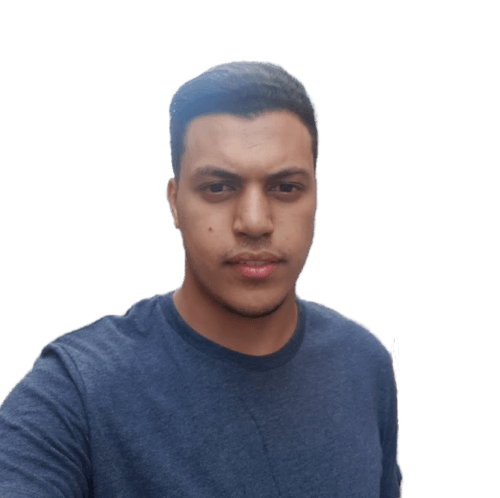
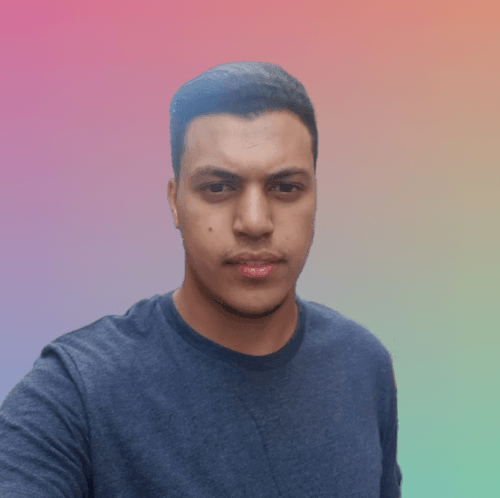
update and fix info

diff --git a/index.html b/index.html
@@ -33,6 +33,12 @@
           <a href="#about">ABOUT</a>
         </li>
         <li>
+          <a href="#work">WORK EXPERIENCE</a>
+        </li>
+        <li>
+          <a href="#education">EDUCATION</a>
+        </li>
+        <li>
           <a href="#skill">SKILL</a>
         </li>
         <li>
@@ -49,14 +55,15 @@
       <div class="text-center">
         <h2 class="hide show">...</h2>
         <h2 class="hide">Developer</h2>
-        <h2 class="hide">Coder</h2>
-        <h2 class="hide">Programmer</h2>
+        <h2 class="hide">Software Engineer</h2>
         <h2 class="hide">Back-end Developer</h2>
         <h2 class="hide">Front-end Developer</h2>
         <h2 class="hide">Full-stack Developer</h2>
         <h2 class="hide">Mobile Developer</h2>
-        <h2 class="hide">Software Engineer</h2>
+        <h2 class="hide">Coder</h2>
+        <h2 class="hide">Programmer</h2>
         <img class="circle" src="./assets/media/aymen.png" alt="aymen">
+        <h3>My name is Aymen, developer and tech passionate.</h3>
       </div>
       <!-- social -->
       <div class="social">
@@ -84,15 +91,47 @@
     <!-- about-->
     <div id="about">
       <h1>About me</h1>
-      <p id="descriptionLang">Passionate about computer science, I'm always looking for new challenges.
+      <p>Passionate about computer science, I'm always looking for new challenges.
         Currently, I attend the third year of Computer Science at the University of Salerno.
         <br>
         I am a very dynamic, sociable person, I like meeting new people and dealing with them. In my free time, I learn
         new technologies and I apply them in my personal projects.<br>
         I'm a coder for passion and hobby.</p>
+        <div class="list">
+          <ul>
+            <li><h2><i class="fab fa-node-js fa-lg"></i> Member and Contributor of Node.js</h2>
+              <p></p>
+            </li>
+          </ul>
+          <ul>
+            <li><h2><i class="fas fa-calendar fa-lg"></i> DevDay Organizer</h2>
+              <p>I organize free events to talk about technology, frameworks, library,
+               languages and much more. We are more than 600 participating. <br>
+                <a href="https://www.devday.it">website www.devday.it</a>
+              </p>
+            </li>
+          </ul>
+        </div>
+    </div>
+    <hr>
+    <!-- work-->
+    <div id="work">
+      <h1><i class="fas fa-globe"></i> Work Experience</h1>
+      <div class="list">
+          <ul>
+            <li><h2>Blexin S.r.l.</h2>
+              <p>Maintenance and addition of new functions with ASP.NET in C # with REST architecture. <br>
+                Addition of new features for cross-platform application (Android, IOS) in Angular 7, Ionic 3.
+              </p>
+            </li>
+          </ul>
+      </div>
+    </div>
+    <hr>
+    <div id="education">
+      <h1><i class="fas fa-university"></i> EDUCATION</h1>
       <div class="list">
         <ul>
-          <h2><i class="fas fa-university"></i> Education:</h2>
           <li>
             <h3>University of Salerno</h3>
           </li>
@@ -108,11 +147,11 @@
           <h3>University of Brighton</h3>
           </li>
           <li>
-            <h4>Learn English</h4>2015-2015
+            Learn English <br> 2015
           </li>
         </ul>
         <ul>
-          <h2><i class="fas fa-language"></i> LANGUAGES:</h2>
+          <li><h2><i class="fas fa-language"></i> LANGUAGES:</h2></li>
           <li>Arabic {native}</li>
           <li>Italian {native}</li>
           <li>English</li>
@@ -166,7 +205,6 @@
           <li>curiosity</li>
         </ul>
         <ul>
-          <li>Empathy</li>
           <li>Communication</li>
           <li>Critical thinking</li>
         </ul>
@@ -213,15 +251,22 @@
           </div>
         </div>
         <div class="card shadow">
+          <h3>MyAssistance</h3>
+          <p>(University course) Java EE, Bootstrap, Maven, jstl, jquery.</p>
+          <div class="bottom">
+            <a class="btn" href="https://github.com/aymen94/simple-Blockchain" target="_blank">Repo</a>
+          </div>
+        </div>
+        <div class="card shadow">
           <h3>E-commerce</h3>
-          <p>JAVA EE, Bootstrap, jstl, jquery.</p>
+          <p>(University course) Java EE, Bootstrap, jstl, jquery.</p>
           <div class="bottom">
             <a class="btn" href="https://github.com/aymen94/visionario" target="_blank">Repo</a>
           </div>
         </div>
         <div class="card shadow">
           <h3>Games Center</h3>
-          <p> Games Center Project similar to Origin, Steam, Uplay.</p>
+          <p>(University course) Games Center Project similar to Origin, Steam, Uplay.</p>
           <div class="bottom">
             <a class="btn" href="https://github.com/aymen94/gamescenter" target="_blank">Repo</a>
           </div>

diff --git a/assets/css/style.min.css b/assets/css/style.min.css
@@ -1,1 +1,1 @@
-@import url(https://fonts.googleapis.com/css?family=Open+Sans);body{background:#07a;background:linear-gradient(to bottom,#07a 0,#0aa 36%,#07a 57%,#0aa 100%);background-size:200%;background-position:0;font-family:'Open Sans',sans-serif}.container{font-size:1.2em;margin:4em;color:#f5f5f5}nav{position:fixed;top:0;left:0;width:100%;text-align:center;background-color:#065d83;height:3em;box-shadow:0 18px 25px rgba(0,0,0,.42);z-index:100}nav>ul>li{display:inline;margin:1em}h1{font-size:3.5em;text-align:center}.circle{position:relative;margin:0 auto 3em;height:9em;width:9em;border-radius:50%;box-shadow:0 0 0 .8em rgba(255,255,255,.3)}.hide{display:none}.show{display:block}#menu{display:none;width:40px;height:30px;font-size:2em;position:absolute;top:5px;right:25px;left:5px;cursor:pointer}.text-center{text-align:center}.card{background:#fff;color:#000;text-align:center;float:left;width:350px;height:350px;margin:50px 25px;display:flex;align-items:center;justify-content:center;flex-direction:column;border-radius:5px}.card>.bottom{margin:.5em 0 .5em 0;flex-direction:row}.shadow{box-shadow:0 18px 25px rgba(0,0,0,.42)}.social{margin:2rem;font-size:3rem;justify-content:space-around;text-align:center}.btn{text-align:center;text-shadow:0 0 7px rgba(0,0,0,.3);font-size:1em;line-height:2em;height:2em;padding:0 1em;margin:0 10px;background:rgba(0,0,0,.3);border:solid 3px transparent;border-radius:4px;opacity:1;transition:all .5s;float:left}.btn:hover{border:solid 3px rgba(235,235,235,.836);box-shadow:0 18px 25px rgba(0,0,0,.42)}.selected{border:solid 3px #0aa}p{background:0 0;font-size:1.3em}a{color:#fff;text-decoration:none;transition:all .5s ease-in-out}li>a:hover{text-decoration:underline overline;transform:scale(1.5)}.list{display:flex;justify-content:space-around;flex-wrap:wrap}li{list-style:none}i{transition:all .5s}i:hover{transform:rotate(360deg)}hr{margin:5em}#up{position:fixed;display:none;color:#fff;bottom:2%;right:2%;font-size:5em;cursor:pointer;z-index:100}@media screen and (max-width:800px){.container{margin:.5em}nav>ul>li{display:block}#menu{display:block}nav>ul{display:none;background-color:#065d83}h1{margin:1em;font-size:2.5em}.circle{margin:2em}.card{margin:10px 5px;font-size:1em;height:100%}.list{justify-content:flex-start}}
+@import url(https://fonts.googleapis.com/css?family=Open+Sans);body{background:#07a;background:linear-gradient(to bottom,#07a 0,#0aa 36%,#07a 57%,#0aa 100%);background-size:200%;background-position:0;font-family:'Open Sans',sans-serif}.container{font-size:1.2em;margin:4em;color:#f5f5f5}nav{position:fixed;top:0;left:0;width:100%;text-align:center;background-color:#2e2e2e;height:3em;box-shadow:0 18px 25px rgba(0,0,0,.42);z-index:100}nav>ul>li{display:inline;margin:1em}h1{font-size:3.5em;text-align:center}.circle{position:relative;margin:0 auto 3em;height:9em;width:9em;border-radius:50%;box-shadow:0 0 0 .8em rgba(255,255,255,.3)}.hide{display:none}.show{display:block}#menu{display:none;width:40px;height:30px;font-size:2em;position:absolute;top:5px;right:25px;left:5px;cursor:pointer}.text-center{text-align:center}.card{background:#fff;color:#000;text-align:center;float:left;width:350px;height:350px;margin:50px 25px;display:flex;align-items:center;justify-content:center;flex-direction:column;border-radius:5px}.card>.bottom{margin:.5em 0 .5em 0;flex-direction:row}.shadow{box-shadow:0 18px 25px rgba(0,0,0,.42)}.social{margin:2rem;font-size:3rem;justify-content:space-around;text-align:center}.btn{text-align:center;text-shadow:0 0 7px rgba(0,0,0,.3);font-size:1em;line-height:2em;height:2em;padding:0 1em;margin:0 10px;background:rgba(0,0,0,.3);border:solid 3px transparent;border-radius:4px;opacity:1;transition:all .5s;float:left}.btn:hover{border:solid 3px rgba(235,235,235,.836);box-shadow:0 18px 25px rgba(0,0,0,.42)}.selected{border:solid 3px #0aa}p{background:0 0;font-size:1.3em}a{color:#fff;text-decoration:none;transition:all .5s ease-in-out}li>a:hover{text-decoration:underline overline;transform:scale(1.5)}.list{display:flex;justify-content:space-around;flex-wrap:wrap}li{list-style:none}i{transition:all .5s}i:hover{transform:rotate(360deg)}hr{margin:5em}#up{position:fixed;display:none;color:#fff;bottom:2%;right:2%;font-size:5em;cursor:pointer;z-index:100}@media screen and (max-width:800px){.container{margin:.5em}nav>ul>li{display:block}#menu{display:block}nav>ul{display:none;background-color:#2e2e2e}h1{margin:1em;font-size:2.5em}.circle{margin:2em}.card{margin:10px 5px;font-size:1em;height:100%}.list{justify-content:flex-start}}

diff --git a/assets/js/main.js b/assets/js/main.js
@@ -5,51 +5,45 @@ var link = document.querySelectorAll('a[href^="#"]');
 var up = document.getElementById('up');
 var i = 0;
 
-
 function switchText() {
-    change[i].classList.remove('show');
-    i = i % (change.length - 1);
-    change[++i].classList.add('show');
+  change[i].classList.remove('show');
+  i = i % (change.length - 1);
+  change[++i].classList.add('show');
 }
 
+window.addEventListener('scroll', function() {
+  this.pageYOffset > 80
+    ? (up.style.display = 'block')
+    : (up.style.display = 'none');
+});
 
-window.addEventListener('scroll', function () {
-    if (this.pageYOffset > 80)
-        up.style.display = 'block';
-    else
-        up.style.display = 'none';
-
-})
-
-menu.addEventListener('click', function () {
-    if (ulMenu.className === 'show')
-        ulMenu.classList.remove('show');
-    else
-        ulMenu.classList.add('show');
+menu.addEventListener('click', function() {
+  if (ulMenu.className === 'show') ulMenu.classList.remove('show');
+  else ulMenu.classList.add('show');
 });
 
 link.forEach(a => {
-    a.addEventListener('click', function (e) {
-        e.preventDefault();
+  a.addEventListener('click', function(e) {
+    e.preventDefault();
 
-        document.querySelector(this.getAttribute('href')).scrollIntoView({
-            behavior: 'smooth'
-        });
+    document.querySelector(this.getAttribute('href')).scrollIntoView({
+      behavior: 'smooth'
     });
+  });
 });
 
-window.addEventListener('load', function () {
-    if ('serviceWorker' in navigator)
-        try {
-            navigator.serviceWorker.register('sw.min.js', { scope: './' }).then(function (registration) {
-                console.log('Service worker registration success');
-            });
-        } catch (err) {
-            console.log(err);
-        }
-    else
-        console.log('no serviceWorker');
+window.addEventListener('load', function() {
+  if ('serviceWorker' in navigator)
+    try {
+      navigator.serviceWorker
+        .register('sw.min.js', { scope: './' })
+        .then(function(registration) {
+          console.log('Service worker registration success');
+        });
+    } catch (err) {
+      console.error(err);
+    }
+  else console.log('no serviceWorker');
 
-    setInterval(switchText, 1500);
-
+  setInterval(switchText, 1500);
 });

diff --git a/assets/js/main.min.js b/assets/js/main.min.js
@@ -1,1 +1,1 @@
-var change=document.querySelectorAll("H2.hide"),menu=document.getElementById("menu"),ulMenu=document.querySelector("nav>ul"),link=document.querySelectorAll('a[href^="#"]'),up=document.getElementById("up"),i=0;function switchText(){change[i].classList.remove("show"),i%=change.length-1,change[++i].classList.add("show")}window.addEventListener("scroll",function(){this.pageYOffset>80?up.style.display="block":up.style.display="none"}),menu.addEventListener("click",function(){"show"===ulMenu.className?ulMenu.classList.remove("show"):ulMenu.classList.add("show")}),link.forEach(a=>{a.addEventListener("click",function(e){e.preventDefault(),document.querySelector(this.getAttribute("href")).scrollIntoView({behavior:"smooth"})})}),window.addEventListener("load",function(){if("serviceWorker"in navigator)try{navigator.serviceWorker.register("sw.min.js",{scope:"./"}).then(function(registration){console.log("Service worker registration success")})}catch(err){console.log(err)}else console.log("no serviceWorker");setInterval(switchText,1500)});
+var change=document.querySelectorAll("H2.hide"),menu=document.getElementById("menu"),ulMenu=document.querySelector("nav>ul"),link=document.querySelectorAll('a[href^="#"]'),up=document.getElementById("up"),i=0;function switchText(){change[i].classList.remove("show"),i%=change.length-1,change[++i].classList.add("show")}window.addEventListener("scroll",function(){this.pageYOffset>80?up.style.display="block":up.style.display="none"}),menu.addEventListener("click",function(){"show"===ulMenu.className?ulMenu.classList.remove("show"):ulMenu.classList.add("show")}),link.forEach(a=>{a.addEventListener("click",function(e){e.preventDefault(),document.querySelector(this.getAttribute("href")).scrollIntoView({behavior:"smooth"})})}),window.addEventListener("load",function(){if("serviceWorker"in navigator)try{navigator.serviceWorker.register("sw.min.js",{scope:"./"}).then(function(registration){console.log("Service worker registration success")})}catch(err){console.error(err)}else console.log("no serviceWorker");setInterval(switchText,1500)});

diff --git a/assets/css/style.css b/assets/css/style.css
@@ -20,7 +20,7 @@ nav {
   left:0;
   width: 100%;
   text-align:center;
-  background-color: rgb(6, 93, 131);
+  background-color: rgb(46, 46, 46);
   height:3em;
   box-shadow: 0 18px 25px rgba(0,0,0,0.42);
   z-index: 100;
@@ -187,7 +187,7 @@ hr {
   }
   nav > ul {
     display: none;
-    background-color: rgb(6, 93, 131);
+    background-color:rgb(46, 46, 46);
   }
   h1 {
     margin: 1em;
